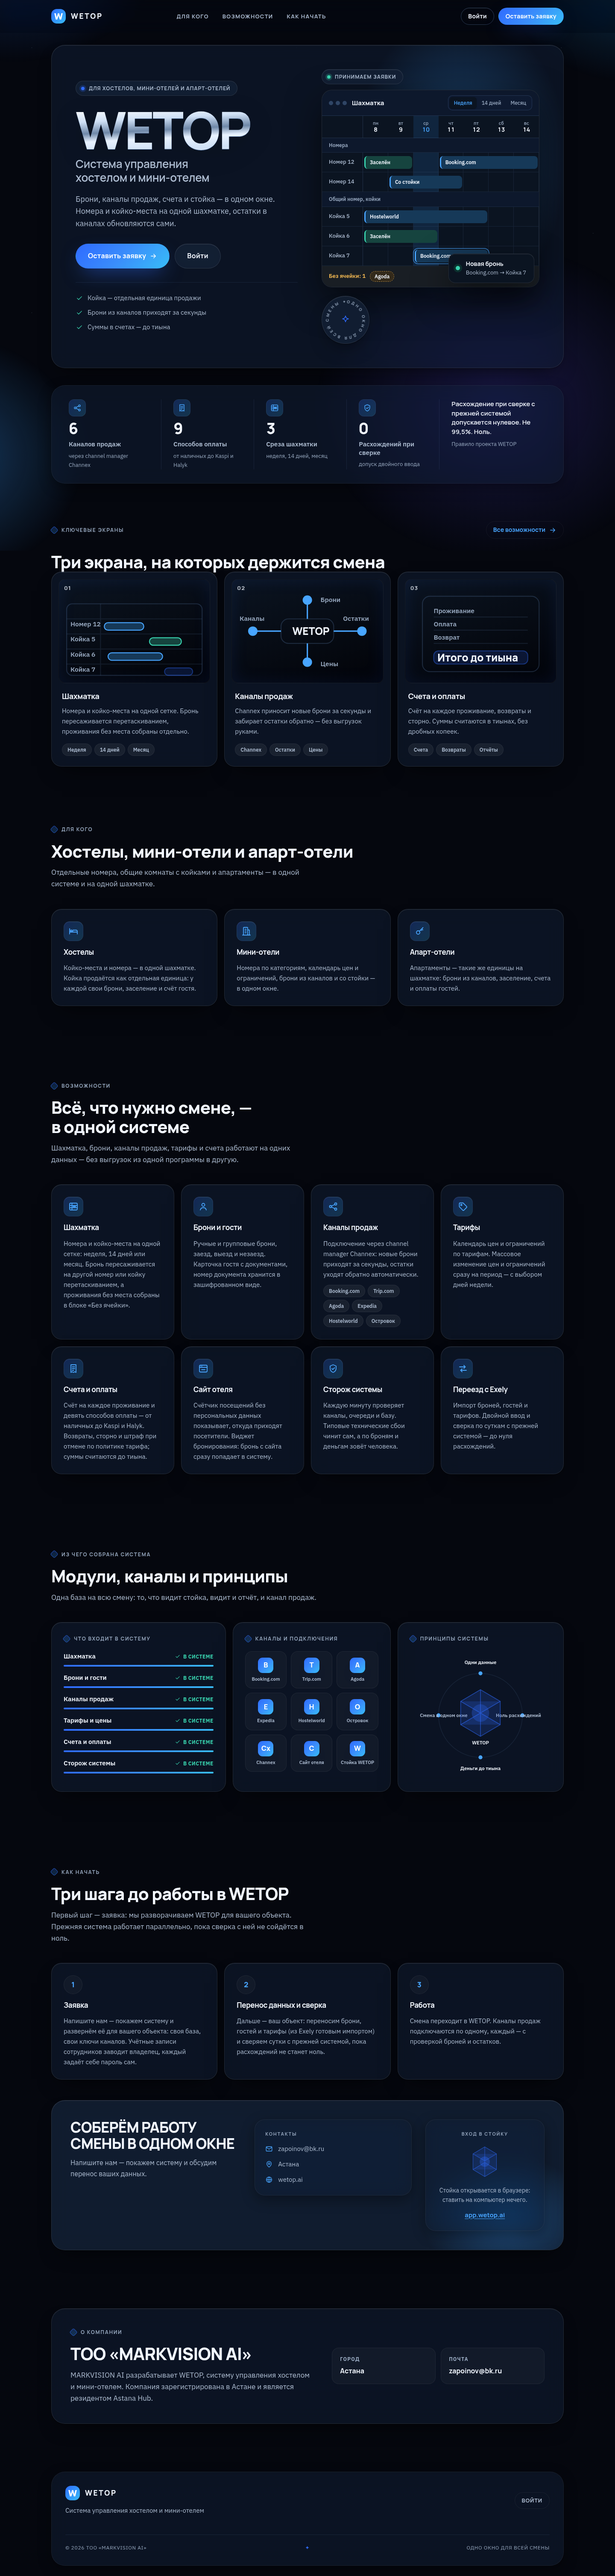
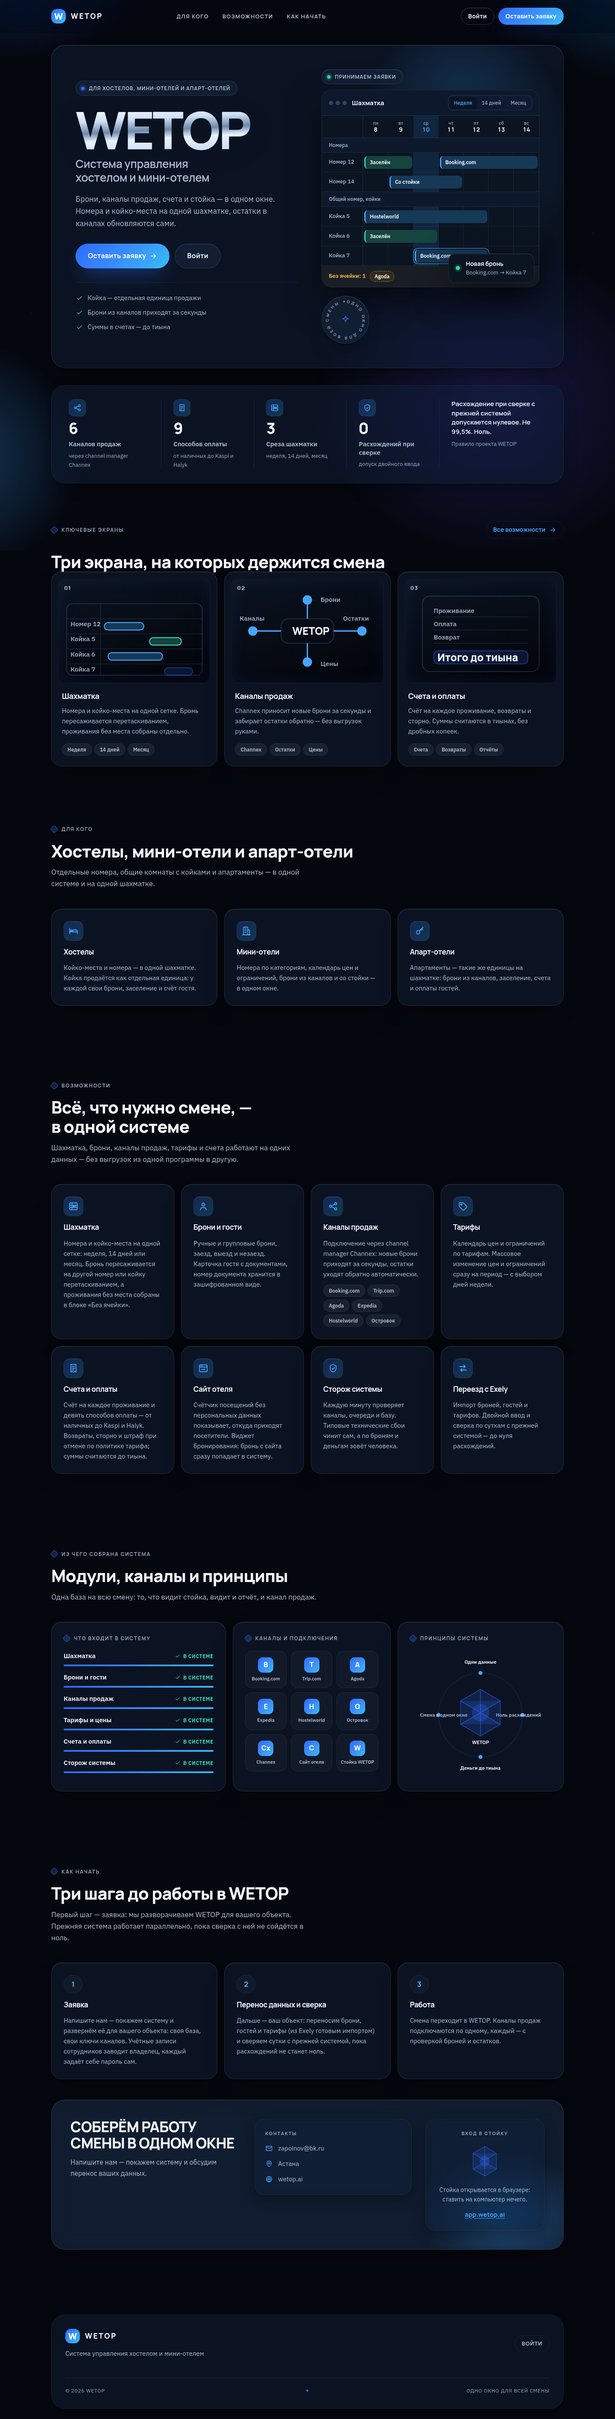
feat(site): the legal entity block is off the landing
The owner asked to drop the company name from the site. Empty company.name
and company.about in site.config.ts hide the "О компании" section as
lib/site.ts already intends, and the footer falls back to "© 2026 WETOP".
City and email stay: they are the contacts of the CTA slab.

Evidence: landing suite 7/7 on this revision, unit 1427/1430, typecheck and
lint clean; full-page screenshots of both themes refreshed.

Claude-Session: https://claude.ai/code/session_01NEj35GEWF2YMDawaR9Hq4K

diff --git a/apps/site/src/site.config.ts b/apps/site/src/site.config.ts
@@ -36,12 +36,13 @@ export const siteConfig: SiteConfig = {
   // поведёт туда. Прежний адрес /register вёл на экран «Регистрация закрыта»: обещание без товара.
   trialHref: '',
   company: {
-    name: 'ТОО «MARKVISION AI»',
+    // Пусто по решению владельца (23.09.2026): название юридического лица на сайте не показываем.
+    // Пустое имя прячет раздел «О компании» целиком, а в подвале остаётся © год и WETOP —
+    // так и задумано в `lib/site.ts`. Город и почта остаются: по ним пишут в разделе «Как начать».
+    name: '',
     city: 'Астана',
     email: 'zapoinov@bk.ru',
     phone: '',
-    about:
-      'MARKVISION AI разрабатывает WETOP, систему управления хостелом и мини-отелем. ' +
-      'Компания зарегистрирована в Астане и является резидентом Astana Hub.',
+    about: '',
   },
 };

diff --git a/CLAUDE.md b/CLAUDE.md
@@ -37,7 +37,7 @@
 открытые вопросы — в `QUESTIONS.md`; §2 не заменяет ни то, ни другое.
 
 
-**23.09.2026 — главная wetop.ai переведена в стеклянное направление по двум снимкам владельца (ADR-064; отчёт и снимки обеих тем — `reports/site-glass-2026-09-23/`).** Поручение: взять оформление чужой посадочной страницы (светлая и тёмная темы) и применить к WETOP, лицо человека с первого экрана не использовать. Перенесено оформление: матовое стекло одним примитивом `.glass` и токенами `--glass-*`, подсвеченный фон с четырьмя пятнами и звёздной пылью (`body::before/::after`, закреплены), металлическое слово-знак `WETOP` на первом экране (`background-clip: text`), круглый знак с надписью по кругу (`textPath` + `textLength`), полоса чисел, витрина из трёх карточек с номерами и мини-экранами на SVG, три стеклянные колонки (модули / каналы / принципы) и плита призыва с контактами. Вместо портрета — макет шахматки. **Содержание не выдумывалось:** «5+ лет / 40+ проектов / 25+ клиентов / 18 наград» заменены числами, названными на этой же странице (6 каналов, 9 способов оплаты, 3 среза шахматки, 0 расхождений), отзыв с именем — правилом проекта о нулевом расхождении, проценты владения навыком — состоянием «в системе», логотипы каналов — буквенными плитками, QR — ссылкой на стойку словами. Тема по-прежнему только из настройки системы, переключателя нет; цвета текста и акцента (`--text`, `--text-2`, `--muted`, `--primary`) не менялись — их контраст уже проверен; при `prefers-contrast: more` стекло становится непрозрачной подложкой. Правила стойки не тронуты: `DESIGN.md` §1 выводит `apps/site` из-под них, сторож ИИ-слопа читает только `apps/web/src`. Доказано: набор главной **7/7** (`…07-05-52Z-e2e-74c3.log`; axe на главной и в блоге, 390 px без горизонтальной прокрутки, шаги под заявку без снятых ADR-056 обещаний, подсказка макета внутри карточки), unit **1427/1430** (`…07-06-10Z-unit-d100.log`), typecheck (`…07-05-32Z-typecheck-e423.log`) и lint (`…07-05-17Z-lint-19df.log`) чисто. **За владельцем:** посмотреть обе темы и сказать, что править; выкладка сайта (`npm run site:deploy` на Cloudflare Pages — из контейнера доступа нет); ссылка на заявку в `site.config.ts` по-прежнему пуста, кнопка ведёт в раздел «Как начать».
+**23.09.2026 — главная wetop.ai переведена в стеклянное направление по двум снимкам владельца (ADR-064; отчёт и снимки обеих тем — `reports/site-glass-2026-09-23/`).** Поручение: взять оформление чужой посадочной страницы (светлая и тёмная темы) и применить к WETOP, лицо человека с первого экрана не использовать. Перенесено оформление: матовое стекло одним примитивом `.glass` и токенами `--glass-*`, подсвеченный фон с четырьмя пятнами и звёздной пылью (`body::before/::after`, закреплены), металлическое слово-знак `WETOP` на первом экране (`background-clip: text`), круглый знак с надписью по кругу (`textPath` + `textLength`), полоса чисел, витрина из трёх карточек с номерами и мини-экранами на SVG, три стеклянные колонки (модули / каналы / принципы) и плита призыва с контактами. Вместо портрета — макет шахматки. **Содержание не выдумывалось:** «5+ лет / 40+ проектов / 25+ клиентов / 18 наград» заменены числами, названными на этой же странице (6 каналов, 9 способов оплаты, 3 среза шахматки, 0 расхождений), отзыв с именем — правилом проекта о нулевом расхождении, проценты владения навыком — состоянием «в системе», логотипы каналов — буквенными плитками, QR — ссылкой на стойку словами. Тема по-прежнему только из настройки системы, переключателя нет; цвета текста и акцента (`--text`, `--text-2`, `--muted`, `--primary`) не менялись — их контраст уже проверен; при `prefers-contrast: more` стекло становится непрозрачной подложкой. Правила стойки не тронуты: `DESIGN.md` §1 выводит `apps/site` из-под них, сторож ИИ-слопа читает только `apps/web/src`. Доказано: набор главной **7/7** (`…07-05-52Z-e2e-74c3.log`; axe на главной и в блоге, 390 px без горизонтальной прокрутки, шаги под заявку без снятых ADR-056 обещаний, подсказка макета внутри карточки), unit **1427/1430** (`…07-06-10Z-unit-d100.log`), typecheck (`…07-05-32Z-typecheck-e423.log`) и lint (`…07-05-17Z-lint-19df.log`) чисто. **Тем же днём по решению владельца снят раздел «О компании»:** в `site.config.ts` пустые `company.name` и `company.about` — название юридического лица на сайте не показывается, раздел прячется целиком (так и задумано в `lib/site.ts`), в подвале остаётся «© 2026 WETOP»; город и почта остались в контактах плиты призыва. Набор главной на этой редакции — **7/7** (`…07-16-32Z-e2e-98a4.log`). **За владельцем:** посмотреть обе темы и сказать, что править; выкладка сайта (`npm run site:deploy` на Cloudflare Pages — из контейнера доступа нет); ссылка на заявку в `site.config.ts` по-прежнему пуста, кнопка ведёт в раздел «Как начать».
 
 **23.09.2026 (утро) — Q-168 закрыт: пробные цены 22.09 возвращены (решение владельца «вернуть всё, сделай сам»; Cowork-сессия, браузерная панель).** Владелец вошёл в стойку сам, агент в 11:30 по Алматы внёс на `/rates` → «Массовое изменение» четыре строки из `reports/rates-test-values-2026-09-22.md` и сохранил: 576 строк цен, 0 строк ограничений, сообщение в Channex staging ушло без ошибок (задача `f54131a6-…`). Проверено запросами: у каждой из 10 пар «категория — тариф» одна цена на весь горизонт, ограничений 0. Попутно: в базе сопоставлены оба тарифа (ОТА с 09.09, базовый с 13.09) — в ТЗ A5 помечено, что до первого канала решить, остаётся ли базовый; ночная полная выгрузка по расписанию (22:07 UTC) отправляла пробные значения в staging ещё раз.
 

diff --git a/reports/site-glass-2026-09-23/report.md b/reports/site-glass-2026-09-23/report.md
@@ -59,11 +59,20 @@
 
 При `prefers-contrast: more` стекло заменяется непрозрачной подложкой.
 
+## Раздел «О компании» снят (23.09.2026)
+
+По решению владельца название юридического лица на сайте не показывается: в `site.config.ts` пустые
+`company.name` и `company.about`. Пустое имя прячет раздел «О компании» целиком — так и задумано в
+`lib/site.ts`, — а в подвале остаётся «© 2026 WETOP». Город и почта остались: по ним пишут в разделе
+«Как начать», и они стоят в контактах плиты призыва. Вернуть раздел можно одной строкой — вписать имя
+обратно в `site.config.ts`.
+
 ## Доказательства
 
 | Набор | Результат | Лог |
 |---|---|---|
 | Главная wetop.ai (статическая сборка, axe, 390 px) | ✅ 7 из 7 | `2026-09-23T07-05-52Z-e2e-74c3.log` |
+| Она же после снятия раздела «О компании» | ✅ 7 из 7 | `2026-09-23T07-16-32Z-e2e-98a4.log` |
 | Модульные | ✅ 1427 из 1430 (3 пропущено) | `2026-09-23T07-06-10Z-unit-d100.log` |
 | Типы | ✅ без ошибок | `2026-09-23T07-05-32Z-typecheck-e423.log` |
 | Линтер | ✅ без ошибок | `2026-09-23T07-05-17Z-lint-19df.log` |

diff --git a/tests/runs/JOURNAL.md b/tests/runs/JOURNAL.md
@@ -1683,3 +1683,7 @@
 | 23.09.2026 12:05 | typecheck | ✅ без ошибок | 16 с | 197e8de +17 | [лог](logs/2026-09-23T07-05-32Z-typecheck-e423.log) |  |
 | 23.09.2026 12:05 | e2e (частично: --config tests/site/playwright.config.ts) | ✅ 7 из 7 | 13 с | 197e8de +17 | [лог](logs/2026-09-23T07-05-52Z-e2e-74c3.log) |  |
 | 23.09.2026 12:06 | unit | ✅ 1427 из 1430, пропущено 3 | 1 мин 23 с | 197e8de +17 | [лог](logs/2026-09-23T07-06-10Z-unit-d100.log) |  |
+| 23.09.2026 12:16 | e2e (частично: --config tests/site/playwright.config.ts) | ✅ 7 из 7 | 14 с | dac32aa +1 | [лог](logs/2026-09-23T07-16-32Z-e2e-98a4.log) |  |
+| 23.09.2026 12:17 | lint | ✅ без ошибок | 12 с | dac32aa +1 | [лог](logs/2026-09-23T07-17-48Z-lint-500c.log) |  |
+| 23.09.2026 12:18 | typecheck | ✅ без ошибок | 16 с | dac32aa +1 | [лог](logs/2026-09-23T07-18-00Z-typecheck-666d.log) |  |
+| 23.09.2026 12:18 | unit | ✅ 1427 из 1430, пропущено 3 | 1 мин 12 с | dac32aa +1 | [лог](logs/2026-09-23T07-18-22Z-unit-b0ef.log) |  |
